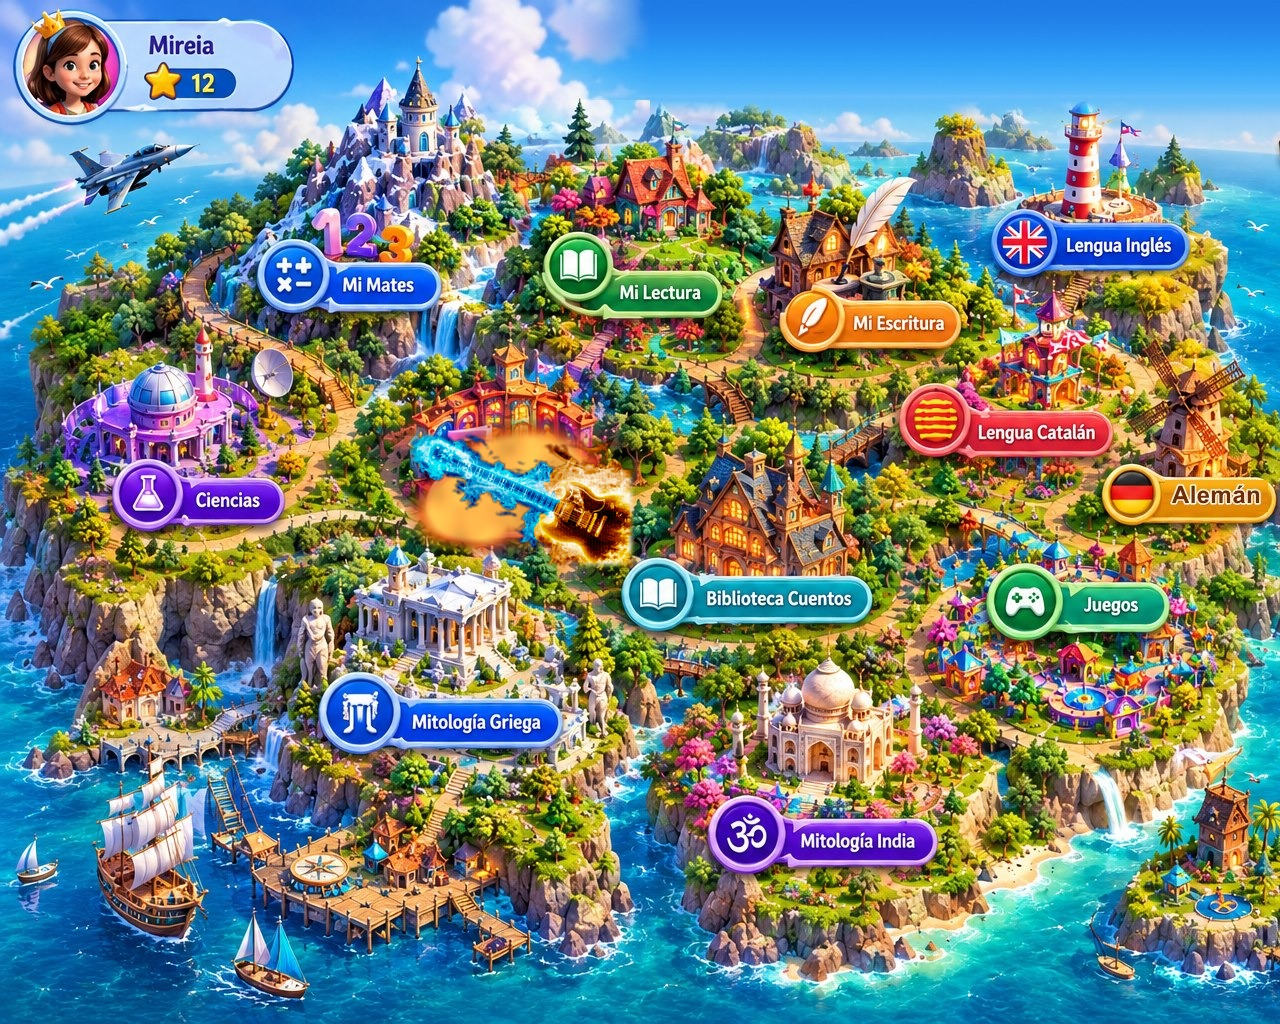
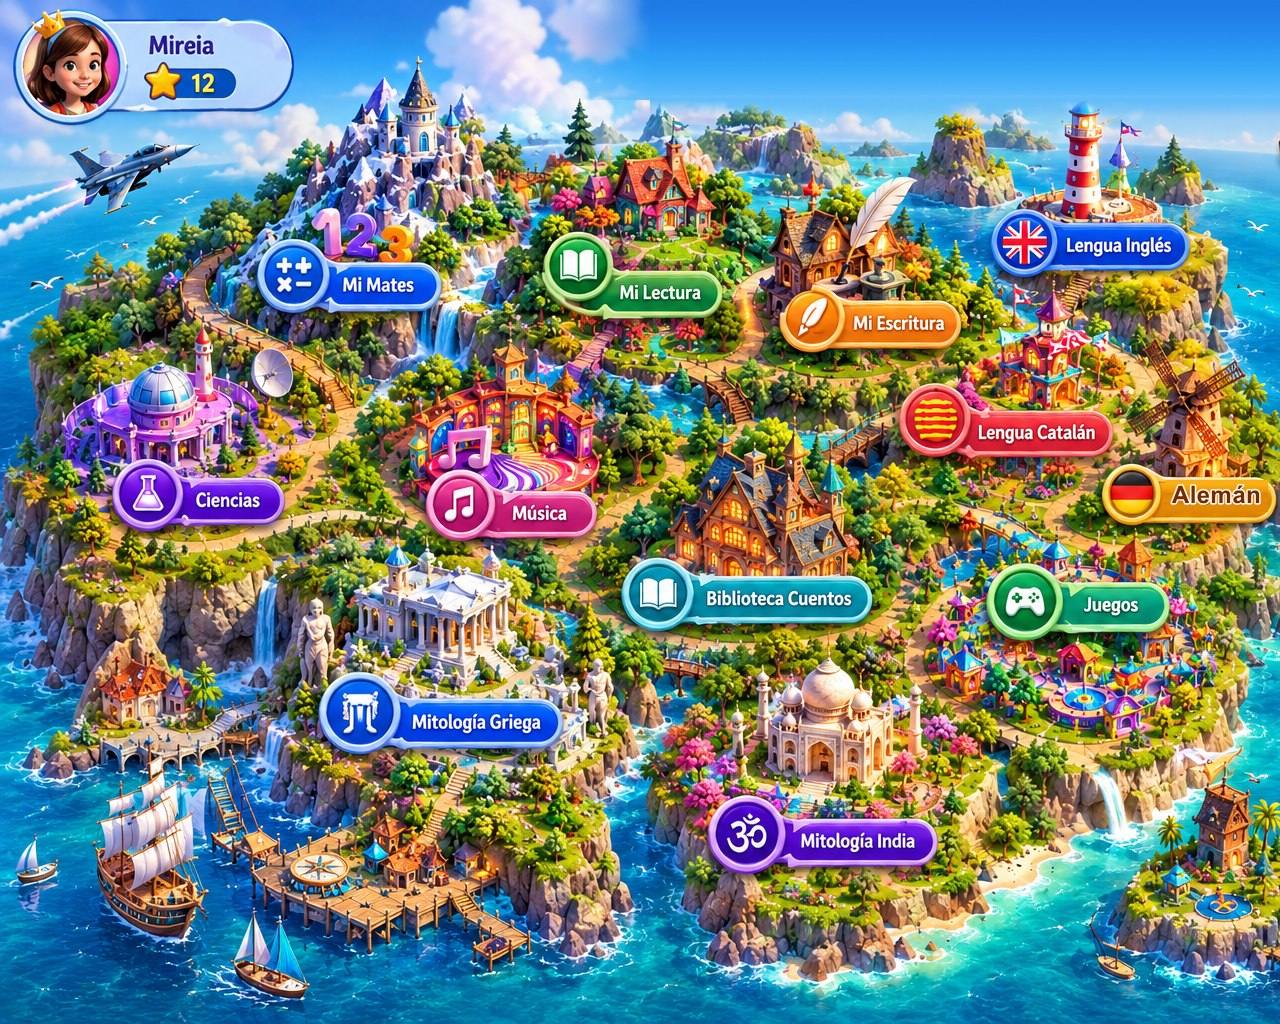
Devuelve el mapa original y pone la guitarra encima del rotulo de Musica

Changed region(s): [[0.3125, 0.4062, 0.5, 0.5625]]

diff --git a/peques/mundo-mireia.html b/peques/mundo-mireia.html
@@ -77,6 +77,8 @@ body{margin:0;background:#071d37;color:#fff;font-family:"Trebuchet MS",system-ui
 @media(max-width:600px){
   .zone-rm{width:1.35cm;height:1.81cm}
 }
+/* Guitarra de fuego sobre el rotulo «Musica» del mapa (PNG con transparencia) */
+.music-guitar{position:absolute;left:40.8%;top:48.8%;width:15.2%;height:auto;transform:translate(-50%,-50%);z-index:1;pointer-events:none}
 /* Lista móvil de zonas (se rellena por JS desde las zonas del mapa) */
 .mobile-zones{display:none}
 .mobile-zone{min-height:48px;display:flex;align-items:center;gap:8px;padding:10px 12px;border:2px solid #fff;border-radius:14px;background:linear-gradient(145deg,#fff,#eaf3ff);color:#123d73;font-weight:900;font-size:13px;text-align:left;box-shadow:0 3px 9px #001c5c55}
@@ -109,6 +111,7 @@ body{margin:0;background:#071d37;color:#fff;font-family:"Trebuchet MS",system-ui
   <button class="zone" aria-label="Alemán" title="Alemán" style="left:92.4%;top:52%;width:14.4%" onclick="location.href='idiomas.html?lang=de&profile='+encodeURIComponent(profileId)"></button>
   <button class="zone" aria-label="Ciencias" title="Ciencias" style="left:15.6%;top:49%;width:14.4%" onclick="location.href='areas-test.html?area=ciencias&profile='+encodeURIComponent(profileId)"></button>
   <button class="zone" aria-label="Música" title="Música" style="left:40.8%;top:51%;width:14.4%" onclick="location.href='areas-test.html?area=musica&profile='+encodeURIComponent(profileId)"></button>
+  <img class="music-guitar" src="imagenes/musica/musica-guitarra.png" alt="" aria-hidden="true" width="302" height="184">
   <button class="zone" aria-label="Biblioteca Cuentos" title="Biblioteca Cuentos" style="left:56.4%;top:60%;width:18.0%" onclick="location.href='areas-test.html?area=biblioteca&profile='+encodeURIComponent(profileId)"></button>
   <button class="zone" aria-label="Mitología Griega" title="Mitología Griega" style="left:34.8%;top:72%;width:19.2%" onclick="location.href='areas-test.html?area=mitologia-griega&profile='+encodeURIComponent(profileId)"></button>
   <button class="zone" aria-label="Mitología India" title="Mitología India" style="left:63.6%;top:83%;width:19.2%" onclick="location.href='areas-test.html?area=mitologia-india&profile='+encodeURIComponent(profileId)"></button>
